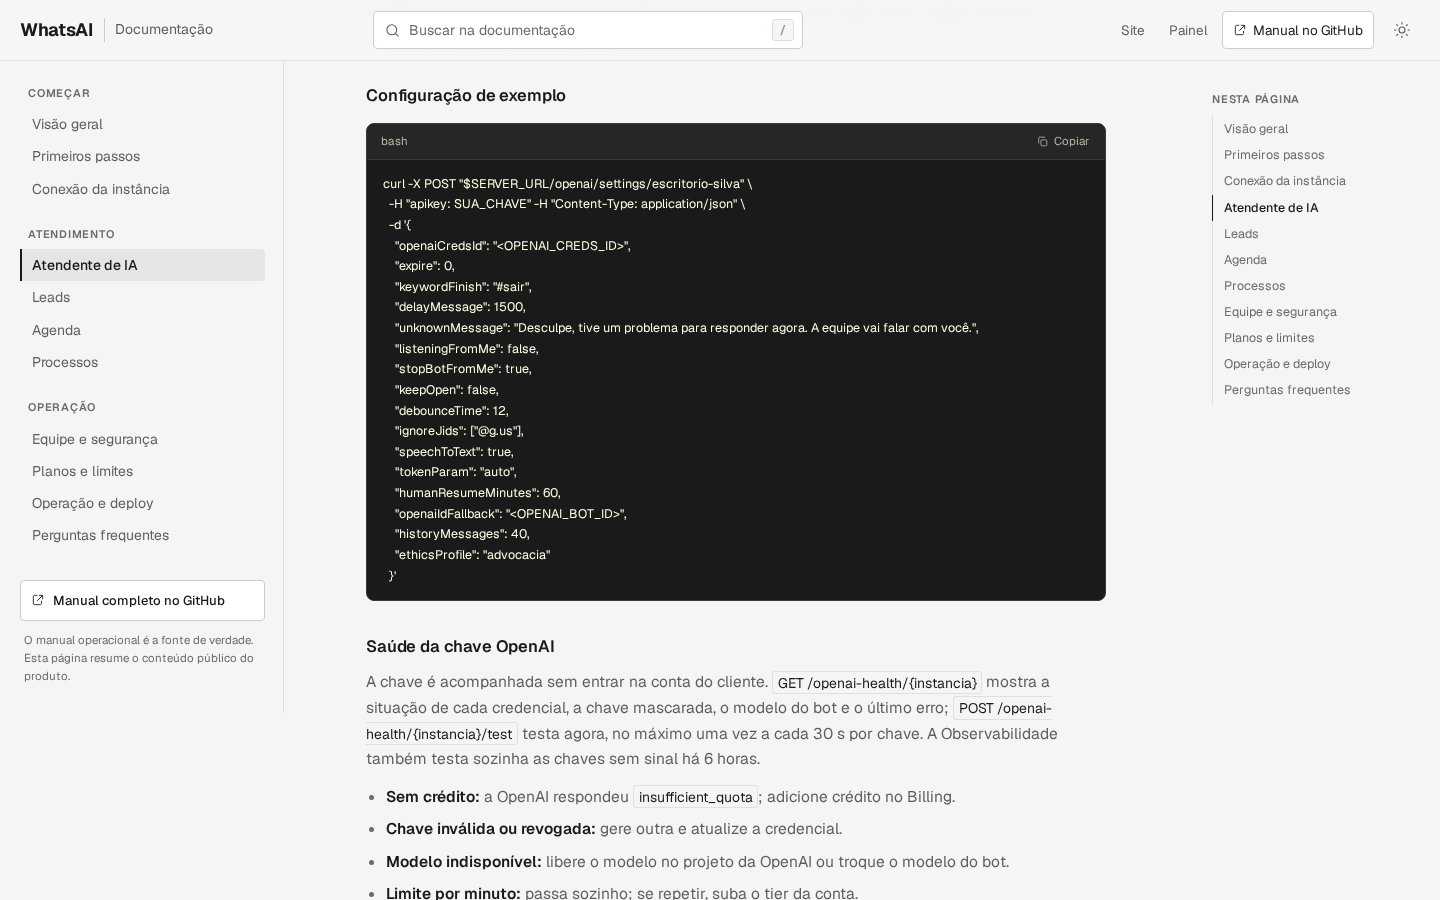
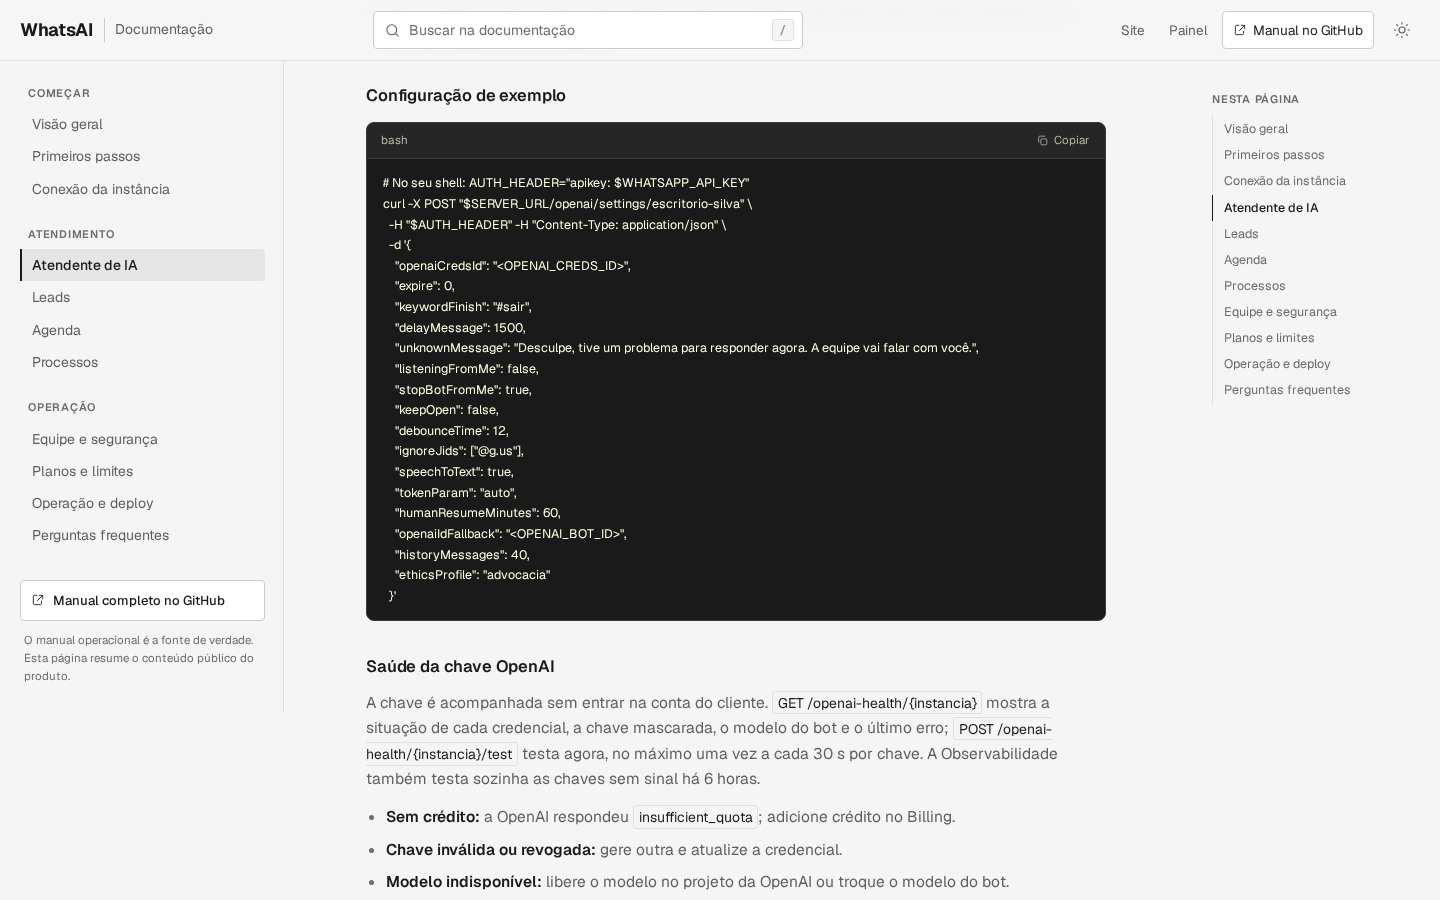
fix(docs): evita falso positivo do Gitleaks nos exemplos de curl [skip render]
Os exemplos passam a usar AUTH_HEADER no shell, em vez de um valor literal no cabeçalho apikey. Nenhuma chave é exibida e o Secret scan deixa de tratar o placeholder como segredo.

Changed region(s): [[0.25, 0.1867, 0.7812, 1.0], [0.7188, 0.1556, 0.75, 0.1867]]

diff --git a/manager/dist/docs/index.html b/manager/dist/docs/index.html
@@ -499,8 +499,9 @@
                 <span class="copy-label">Copiar</span>
               </button>
             </div>
-            <pre><code>curl -X POST "$SERVER_URL/instance/create" \
-  -H "apikey: SUA_CHAVE" \
+            <pre><code># No seu shell: AUTH_HEADER="apikey: $WHATSAPP_API_KEY"
+curl -X POST "$SERVER_URL/instance/create" \
+  -H "$AUTH_HEADER" \
   -H "Content-Type: application/json" \
   -d '{
     "instanceName": "escritorio-silva",
@@ -600,8 +601,9 @@
                 <span class="copy-label">Copiar</span>
               </button>
             </div>
-            <pre><code>curl -X POST "$SERVER_URL/openai/settings/escritorio-silva" \
-  -H "apikey: SUA_CHAVE" -H "Content-Type: application/json" \
+            <pre><code># No seu shell: AUTH_HEADER="apikey: $WHATSAPP_API_KEY"
+curl -X POST "$SERVER_URL/openai/settings/escritorio-silva" \
+  -H "$AUTH_HEADER" -H "Content-Type: application/json" \
   -d '{
     "openaiCredsId": "&lt;OPENAI_CREDS_ID&gt;",
     "expire": 0,
@@ -1060,8 +1062,9 @@ Conversa: https://wa.me/55DDDNUMERO</code></pre>
                 <span class="copy-label">Copiar</span>
               </button>
             </div>
-            <pre><code>claude mcp add --transport http whatsai https://&lt;url-da-api&gt;/mcp \
-  --header "apikey: SUA_CHAVE"</code></pre>
+            <pre><code># No seu shell: AUTH_HEADER="apikey: $WHATSAPP_API_KEY"
+claude mcp add --transport http whatsai https://&lt;url-da-api&gt;/mcp \
+  --header "$AUTH_HEADER"</code></pre>
           </div>
 
           <h3 id="operacao-local">Rodando localmente</h3>
